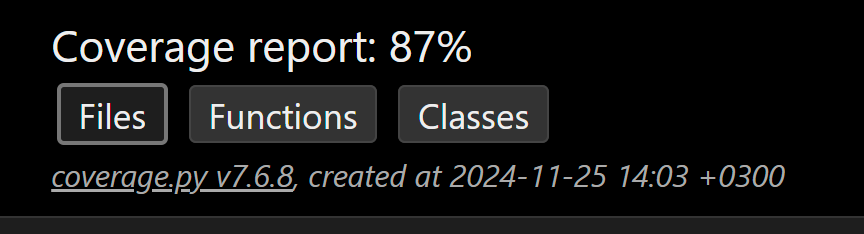
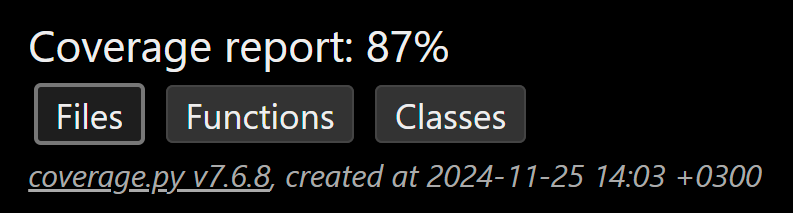
updated readme.md tests block

diff --git a/README.md b/README.md
@@ -75,7 +75,7 @@ python manage.py runserver
 - **Покрытие кода**: 87%.
 - **Инструменты для тестирования**: [Pytest](https://pytest.org), [Coverage.py](https://coverage.readthedocs.io/).
 
-![](/screenshots/tests.png)
+<img src="/screenshots/tests.png" alt="coverage" width="200">
 
 Приложение покрыто тестами. Тесты включают:
 - Проверку функциональности работы с проектами.
